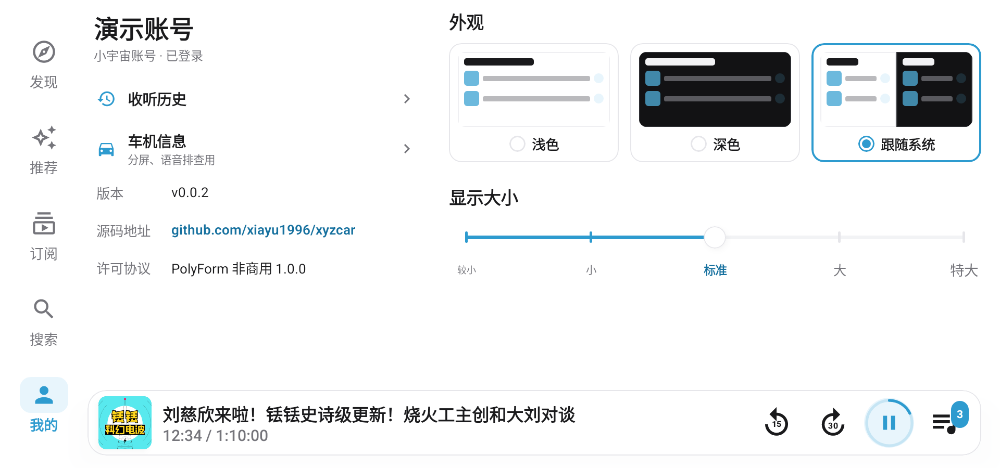
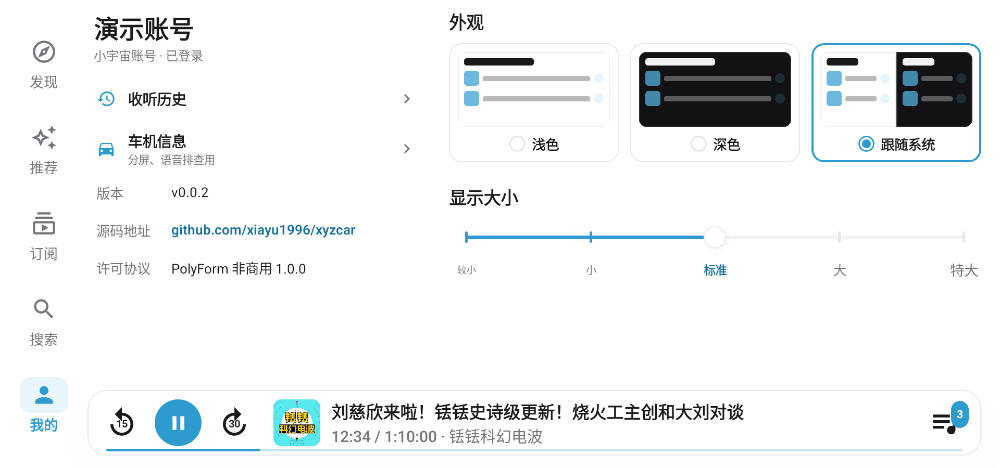
test(ui): add split player and full page snapshots

Changed region(s): [[0.093, 0.8376, 0.961, 0.9872]]

diff --git a/app/src/test/java/com/ryan/xyzcar/UiSnapshots.kt b/app/src/test/java/com/ryan/xyzcar/UiSnapshots.kt
@@ -22,6 +22,9 @@ import androidx.compose.material.icons.filled.Refresh
 import androidx.compose.material.icons.filled.Search
 import androidx.compose.material.icons.filled.DirectionsCar
 import androidx.compose.material.icons.filled.History
+import androidx.compose.material.icons.filled.SystemUpdate
+import androidx.compose.material.icons.automirrored.filled.QueueMusic
+import androidx.compose.material.icons.automirrored.filled.Logout
 import androidx.compose.material.icons.filled.Layers
 import androidx.compose.material3.MaterialTheme
 import androidx.compose.material3.Text
@@ -279,9 +282,67 @@ class UiSnapshots {
         shot { XyzCarTheme(ThemeMode.Light) { Landscape(Tab.Me) { Me() } } }
     }
 
+    /** 竖长画布：把整页从头到尾渲染出来（不滚动），给人检查内容多不多 */
+    private fun tall(heightPx: Int) = DeviceConfig.PIXEL_C.copy(
+        screenWidth = 1920, screenHeight = heightPx, xdpi = 240, ydpi = 240,
+        density = ResDensity.HIGH, softButtons = false, orientation = ScreenOrientation.PORTRAIT, nightMode = NightMode.NOTNIGHT,
+    )
+
+    /** 「我的」整页：和 MeScreen 同样的行与设置，右栏含车机实验功能 */
+    @Test fun meFullPage() {
+        paparazzi.unsafeUpdateConfig(tall(2100))
+        val store = com.ryan.xyzcar.data.LocalStore(paparazzi.context)
+        shot { XyzCarTheme(ThemeMode.Light) { androidx.compose.material3.Surface(color = Xyz.bg, contentColor = Xyz.text) {
+            Row(Modifier.fillMaxSize().padding(horizontal = 32.dp, vertical = 16.dp), horizontalArrangement = Arrangement.spacedBy(48.dp)) {
+                Column(Modifier.width(520.dp)) {
+                    Text("演示账号", style = MaterialTheme.typography.headlineLarge, color = Xyz.text)
+                    Text("小宇宙账号 · 已登录", style = MaterialTheme.typography.bodyMedium, color = Xyz.sub)
+                    Spacer(Modifier.height(16.dp))
+                    MenuRow(Icons.Filled.History, "收听历史") {}
+                    MenuRow(Icons.AutoMirrored.Filled.QueueMusic, "播放列表") {}
+                    MenuRow(Icons.Filled.DirectionsCar, "车机信息", "分屏、语音排查用") {}
+                    MenuRow(Icons.Filled.SystemUpdate, "检查更新", "当前 v0.0.4") {}
+                    MenuRow(Icons.AutoMirrored.Filled.Logout, "退出登录") {}
+                    InfoRow("版本", "v0.0.4")
+                    InfoRow("源码地址", "github.com/xiayu1996/xyzcar", link = true) {}
+                    InfoRow("许可协议", "PolyForm 非商用 1.0.0")
+                }
+                Column(Modifier.weight(1f)) {
+                    Text("外观", style = MaterialTheme.typography.titleLarge, color = Xyz.text, modifier = Modifier.padding(bottom = 14.dp))
+                    Row(horizontalArrangement = Arrangement.spacedBy(18.dp)) {
+                        ThemeMode.entries.forEach { m -> ThemeCard(m, m == ThemeMode.System, Modifier.weight(1f)) {} }
+                    }
+                    Text("显示大小", style = MaterialTheme.typography.titleLarge, color = Xyz.text, modifier = Modifier.padding(top = 36.dp))
+                    TickSlider(2, com.ryan.xyzcar.data.SIZE_LABELS) {}
+                    com.ryan.xyzcar.ui.screens.CarLabSection(store)
+                }
+            }
+        } } }
+    }
+
+    /** 「车机信息」整页（模拟器上读不到比亚迪的东西，车上会多出小迪 / 分屏 / 媒体中心几段） */
+    @Test fun diagnosticsFullPage() {
+        paparazzi.unsafeUpdateConfig(tall(1300))
+        shot { XyzCarTheme(ThemeMode.Light) { androidx.compose.material3.Surface(color = Xyz.bg, contentColor = Xyz.text) {
+            Column(Modifier.fillMaxSize().padding(horizontal = 32.dp, vertical = 16.dp)) { com.ryan.xyzcar.ui.screens.DiagnosticsScreen(onBack = {}) }
+        } } }
+    }
+
     @Test fun playerFull() {
         paparazzi.unsafeUpdateConfig(config(night = false))
         shot { XyzCarTheme(ThemeMode.Light) { FullPlayer(playing, 15, noop) } }
+    }
+
+    /** 分屏 1/2 的全屏播放页：上下排列 */
+    @Test fun playerSplit() {
+        paparazzi.unsafeUpdateConfig(config(night = false, widthPx = 960))
+        shot { XyzCarTheme(ThemeMode.Light) { FullPlayer(playing, 15, noop) } }
+    }
+
+    /** 分屏 1/3 的全屏播放页：次要操作图标在上文字在下 */
+    @Test fun playerNarrow() {
+        paparazzi.unsafeUpdateConfig(config(night = false, widthPx = 630))
+        shot { XyzCarTheme(ThemeMode.Light) { FullPlayer(playing, null, noop) } }
     }
 
     /** 分屏 1/3：底部导航 + 窄迷你播放条 */
@@ -321,7 +382,7 @@ class UiSnapshots {
         val q = DemoData.episodes.take(4)
         ScreenHeader("播放列表", {}) { BigButton("清空", secondary = true) {} }
         LazyColumn {
-            items(q.size) { i -> QueueRow(q[i], i == 0, i == q.lastIndex, {}, {}, {}, {}, {}) }
+            items(q.size) { i -> QueueRow(q[i], i == 0, {}, {}, {}, {}) }
         }
     }
 

diff --git a/docs/screenshots/index.html b/docs/screenshots/index.html
@@ -1,5 +1,5 @@
 <!doctype html><html lang="zh-CN"><head><meta charset="utf-8"><meta name="viewport" content="width=device-width,initial-scale=1">
-<title>小宇宙车机版 0.0.2 界面</title><style>
+<title>小宇宙车机版界面</title><style>
 :root{--bg:#f5f4f2;--fg:#161517;--muted:rgba(60,60,67,.6);--card:#fff}
 @media (prefers-color-scheme:dark){:root{--bg:#0b0b0c;--fg:#f2f2f2;--muted:rgba(235,235,245,.6);--card:#161618}}
 body{margin:0;background:var(--bg);color:var(--fg);font:15px/1.5 -apple-system,"PingFang SC",sans-serif}
@@ -8,7 +8,7 @@ main{max-width:1400px;margin:0 auto;padding:24px 16px}h1{font-size:24px;margin:0
 figure{margin:0;background:var(--card);border-radius:12px;overflow:hidden;box-shadow:0 5px 40px rgba(0,0,0,.08)}
 img{width:100%;display:block;background:#000}figcaption{padding:10px 14px}figcaption b{display:block}figcaption span{color:var(--muted);font-size:13px}
 @media (max-width:480px){.grid{grid-template-columns:1fr}}
-</style></head><body><main><h1>小宇宙车机版 0.0.2 · 界面截图</h1>
+</style></head><body><main><h1>小宇宙车机版 · 界面截图</h1>
 <p>本地渲染（Paparazzi，不需要模拟器），用真实公开内容和真实封面。车机横屏按 1280×720dp 渲染。这些图是用 App 的同一套组件拼出的页面，不是运行中 App 的截屏；转场动画只能在真机上看。</p>
 <div class="grid"><figure><img src="discoverLight.png" loading="lazy" alt="发现"><figcaption><b>发现</b><span>浅色。搜索条、入口色块（分类 / 榜单 / 编辑精选）、「为你推荐」横向分页，可换一批</span></figcaption></figure>
 <figure><img src="discoverDark.png" loading="lazy" alt="发现 · 深色"><figcaption><b>发现 · 深色</b><span>深色模式；切换外观时颜色渐变过渡</span></figcaption></figure>
@@ -18,9 +18,13 @@ img{width:100%;display:block;background:#000}figcaption{padding:10px 14px}figcap
 <figure><img src="updatesDarkLargest.png" loading="lazy" alt="订阅 · 深色 · 特大"><figcaption><b>订阅 · 深色 · 特大</b><span>显示大小调到「特大」时不裁切</span></figcaption></figure>
 <figure><img src="searchResultsLight.png" loading="lazy" alt="搜索结果"><figcaption><b>搜索结果</b><span>左边相关节目、右边单集，关键词高亮；付费单集置灰</span></figcaption></figure>
 <figure><img src="meLight.png" loading="lazy" alt="我的"><figcaption><b>我的</b><span>账号、收听历史、车机信息、关于；外观三选一、显示大小刻度滑杆</span></figcaption></figure>
-<figure><img src="playerFull.png" loading="lazy" alt="全屏播放页"><figcaption><b>全屏播放页</b><span>点迷你播放条从底部滑出；进度条可点可拖，倍速、定时关闭</span></figcaption></figure>
+<figure><img src="meFullPage.png" loading="lazy" alt="我的 · 整页"><figcaption><b>我的 · 整页</b><span>左栏账号与菜单，右栏外观、显示大小、车机测试</span></figcaption></figure>
+<figure><img src="diagnosticsFullPage.png" loading="lazy" alt="车机信息 · 整页"><figcaption><b>车机信息 · 整页</b><span>导出按钮 + 几行摘要；原始数据只进导出的报告</span></figcaption></figure>
+<figure><img src="playerFull.png" loading="lazy" alt="全屏播放页"><figcaption><b>全屏播放页</b><span>点迷你播放条从底部滑出；后退 · 播放 · 前进居中，倍速 / 定时 / 播放列表 / 简介同形胶囊；进度条可点可拖</span></figcaption></figure>
+<figure><img src="playerSplit.png" loading="lazy" alt="播放页 · 分屏 1/2"><figcaption><b>播放页 · 分屏 1/2</b><span>封面在上、控制在下</span></figcaption></figure>
+<figure><img src="playerNarrow.png" loading="lazy" alt="播放页 · 分屏 1/3"><figcaption><b>播放页 · 分屏 1/3</b><span>次要操作图标在上文字在下</span></figcaption></figure>
 <figure><img src="narrowSplitLight.png" loading="lazy" alt="分屏 1/3"><figcaption><b>分屏 1/3</b><span>窄屏时改用底部导航</span></figcaption></figure>
-<figure><img src="queueLight.png" loading="lazy" alt="播放列表"><figcaption><b>播放列表</b><span>上移 / 下移 / 移除</span></figcaption></figure>
+<figure><img src="queueLight.png" loading="lazy" alt="播放列表"><figcaption><b>播放列表</b><span>移到最前 / 移出</span></figcaption></figure>
 <figure><img src="queueLightLargest.png" loading="lazy" alt="播放列表 · 特大"><figcaption><b>播放列表 · 特大</b><span>按钮换到第二行，标题不被挤</span></figcaption></figure>
 <figure><img src="loginLight.png" loading="lazy" alt="登录 · 等待扫码"><figcaption><b>登录 · 等待扫码</b><span>横屏浅色</span></figcaption></figure>
 <figure><img src="loginDarkScannedPortrait.png" loading="lazy" alt="登录 · 已扫码"><figcaption><b>登录 · 已扫码</b><span>竖屏深色</span></figcaption></figure></div></main></body></html>
